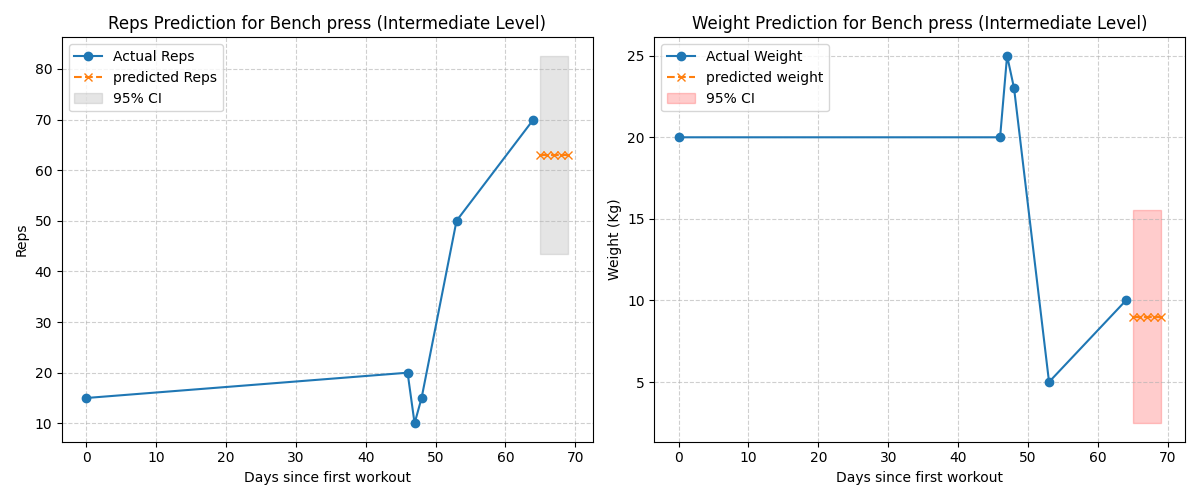
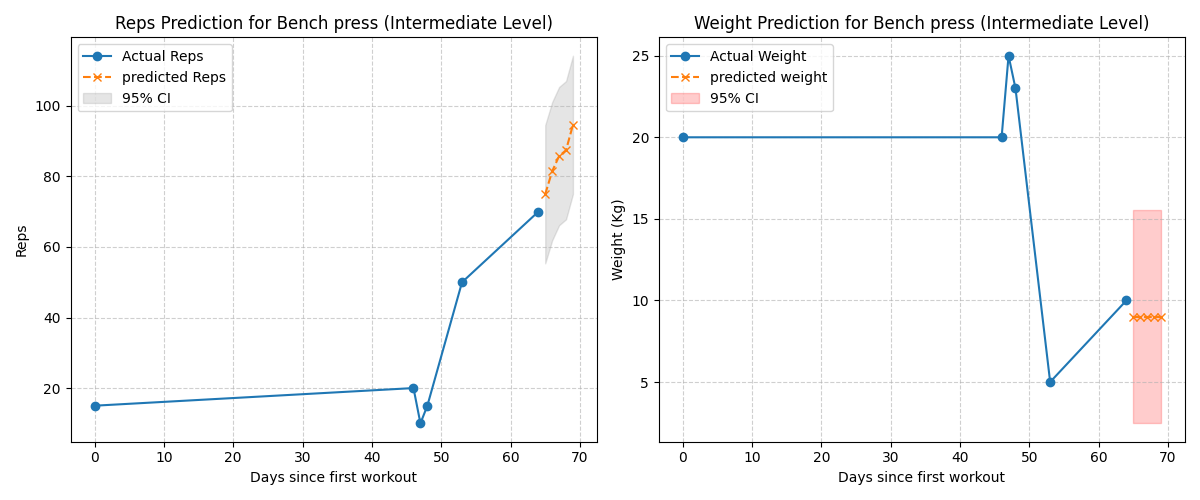
so annoying

diff --git a/predictor.py b/predictor.py
@@ -109,8 +109,8 @@ def predict_targets(dates, reps, weights, user_level="intermediate", degree=2):
 # Trade off ensures that if weights increase for an exercise
 # Reps will be reduced proportionally 
 # This fully reflects real training as when weights increase reps may decrease
-    growth_rate_weights = 0.04
-    growth_rate_reps = 0.02
+    growth_rate_weights = 0.05
+    growth_rate_reps = 0.01
     max_growth_step = 5
     for i in range(len(future_days)):
         future_weights[i] *= (1 + growth_rate_weights)
@@ -120,16 +120,17 @@ def predict_targets(dates, reps, weights, user_level="intermediate", degree=2):
         # I came up with rules that can accomodate for this style of training
         # First if weights  are low reps will also dip
         if future_weights[i] < max_weights * 0.5:
-            future_reps[i] = max(future_reps[i] * 0.97, 1) # 5% decrease
+            future_reps[i] = max(future_reps[i] * 0.90, 1) # 10% dip
+            future_weights[i] *= 1.05 # 5% increase
         # If weights are high reps will aso increase
         if future_weights[i] > max_weights * 0.8:
-            future_reps[i] *= 1.03
+            future_reps[i] *= 1.02
         # If reps are low weights will decrease
-        if future_reps[i] < max_reps * 0.5:
-            future_weights[i] = max(future_weights[i] * 0.95, 1)
+        if future_reps[i] < max_reps * 0.4:
+            future_weights[i] = max(future_weights[i] * 0.97, 1)
         # If reps are high weights will increase
-        if future_reps[i] > max_reps * 0.8:
-            future_weights[i] *=1.03
+        if future_reps[i] > max_reps * 0.7:
+            future_weights[i] *=1.02
         # Fatigue Cycle : every 3rd prediction reps dip slightly
         if i % 3 == 0:
             future_reps[i] *= 0.97
